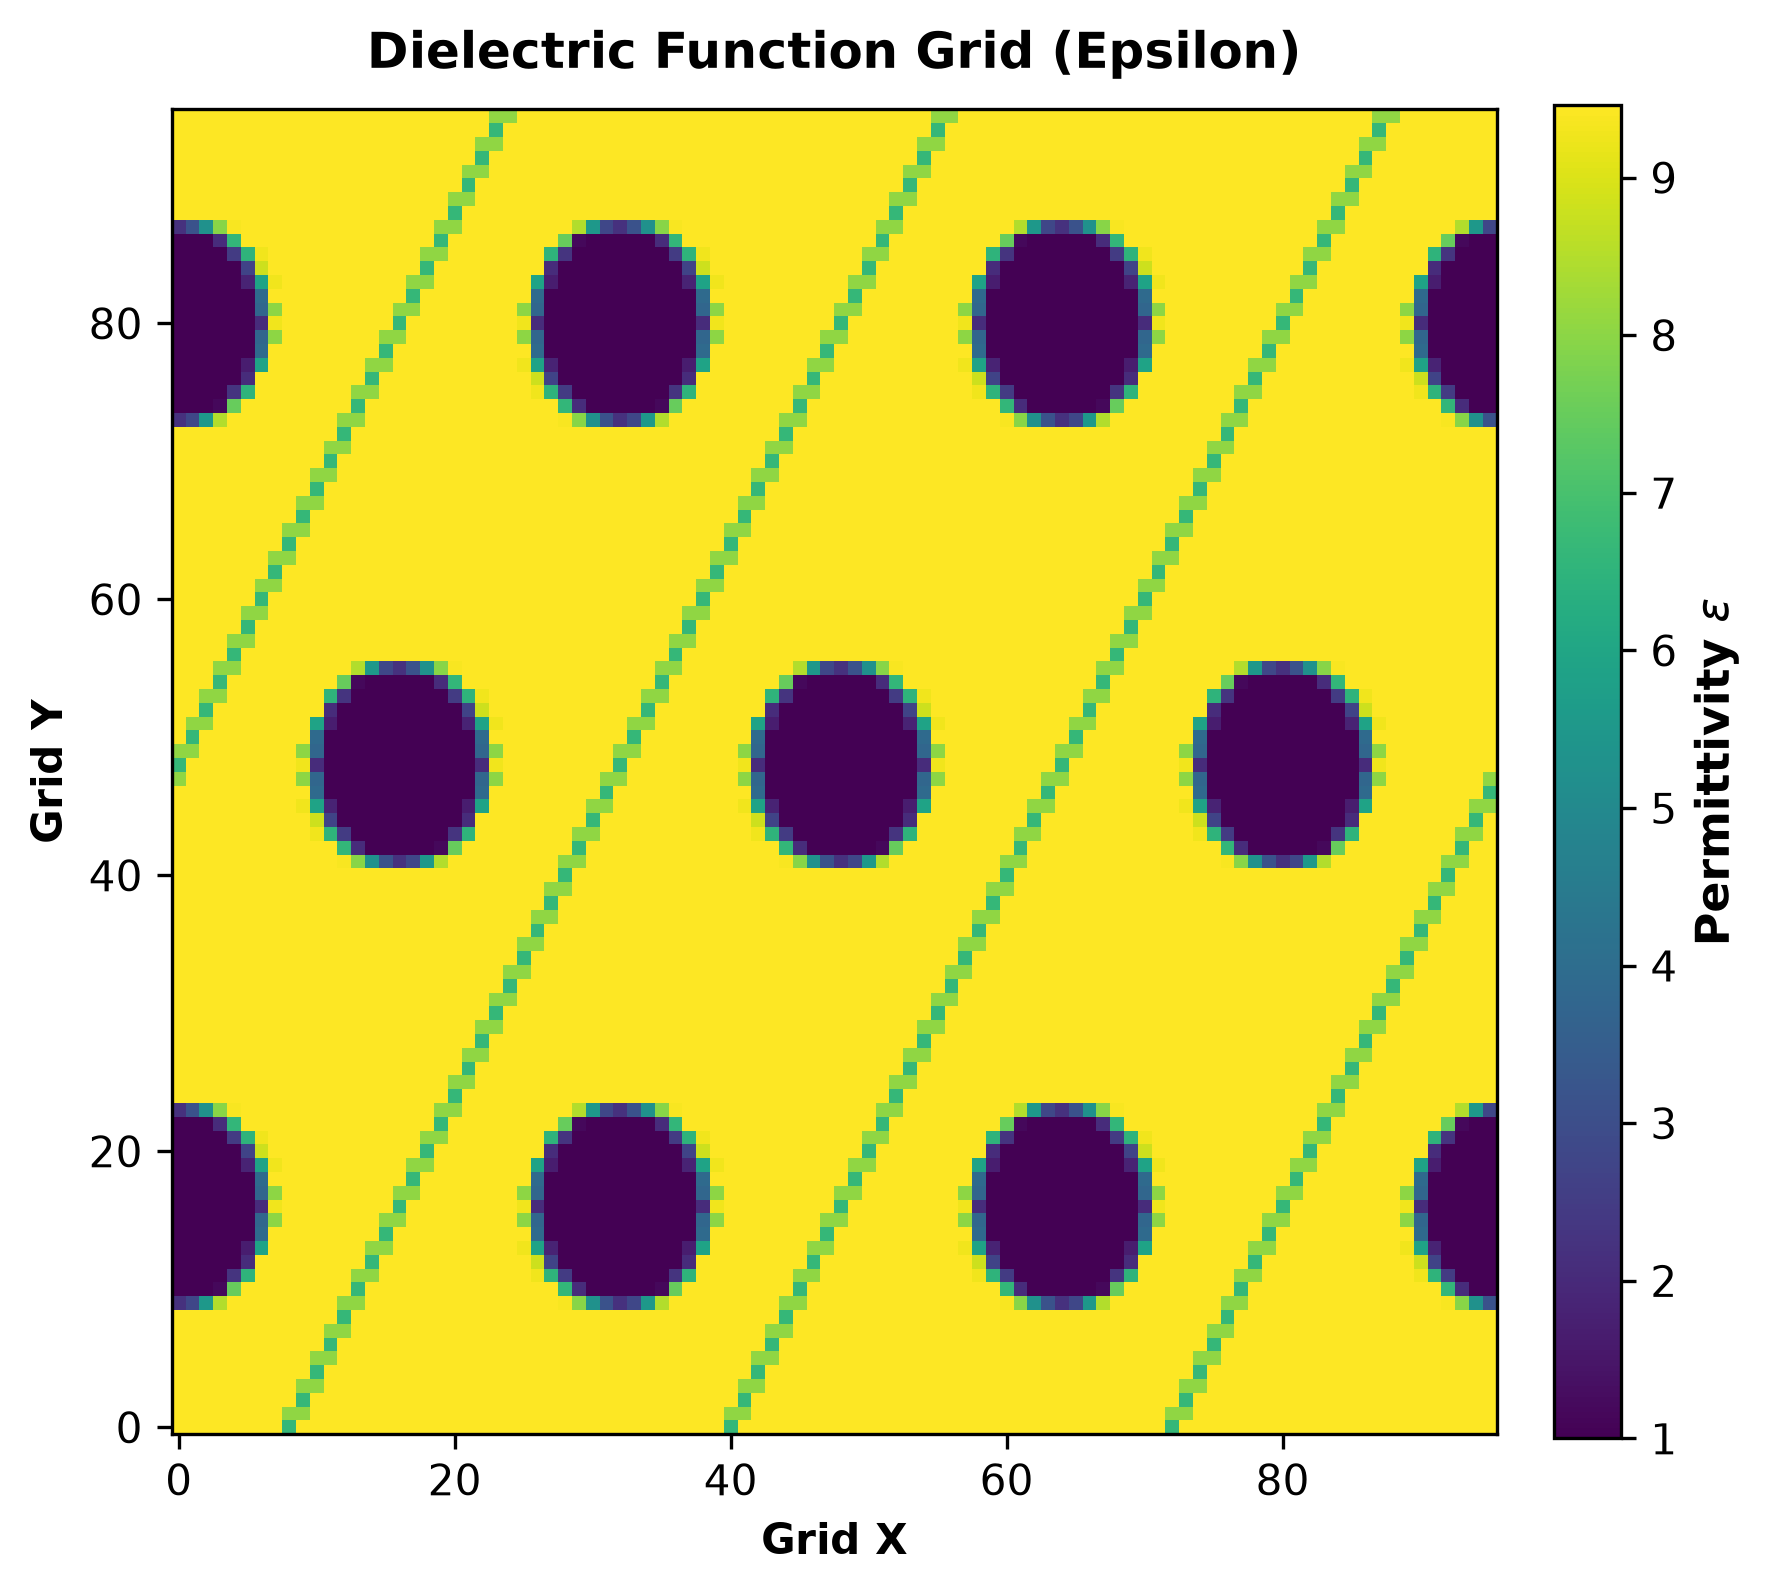
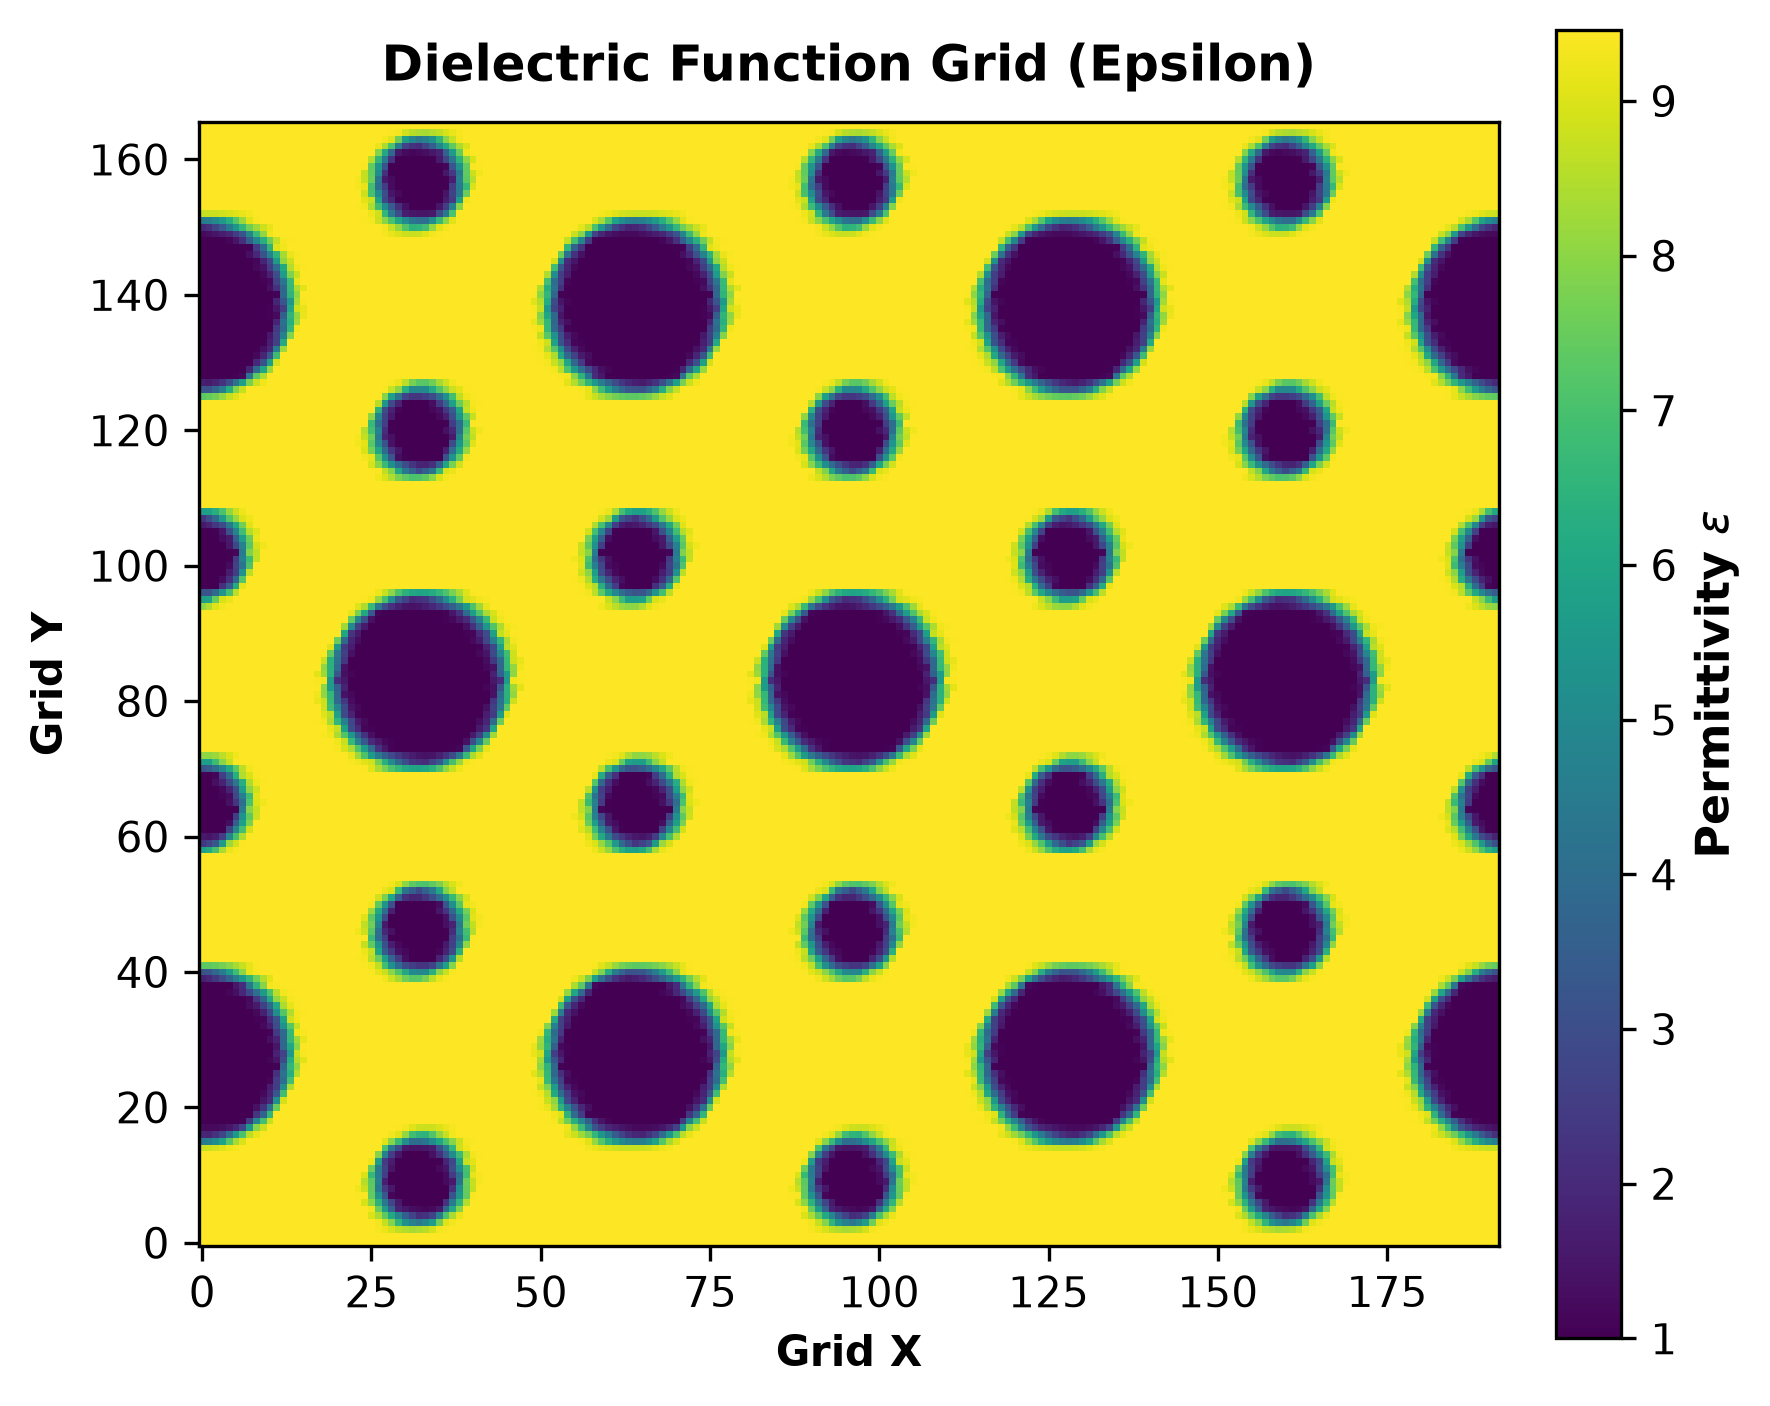
feat(v2): support multi-mode extraction (te, tm, zeven, zodd, freqs), red/blue/black dot band plotting, and update main.ctl for TE and TM modes

diff --git a/src/phc_nzi/plotter.py b/src/phc_nzi/plotter.py
@@ -19,19 +19,19 @@ def plot_band_structure(
     dpi: int = 300,
 ) -> Tuple[plt.Figure, plt.Axes]:
     """
-    Plot photonic band structure dispersion curves from a .data file.
+    Plot photonic band structure dispersion curves from .data files.
 
     Parameters:
     -----------
     data_path : str or PathLike
-        Path to .data file (e.g. 'tefreqs.data') or directory containing .data files.
+        Path to a .data file (e.g. 'tefreqs.data') or directory containing .data files.
     labels : list of str, str, or PathLike, optional
         High-symmetry k-point labels (e.g. ['K', 'Γ', 'M']) or path to kpath_labels.data file.
     output_path : str or PathLike, optional
         Path to save figure (e.g. 'band_structure.png'). If None, figure is not saved to disk.
     title : str
         Plot title.
-    highlight_gaps : bool, default True
+    highlight_gaps : bool, default False
         Whether to highlight and annotate complete photonic band gaps.
     style : {'light', 'dark'}, default 'light'
         Visual style mode.
@@ -45,54 +45,92 @@ def plot_band_structure(
     (fig, ax) : matplotlib Figure and Axes objects.
     """
     path_obj = Path(data_path).resolve()
+    target_dir = path_obj if path_obj.is_dir() else path_obj.parent
+
+    # Mode color & label specs:
+    # "te" and "zeven" -> Red ("#d62728")
+    # "tm" and "zodd"  -> Blue ("#1f77b4")
+    # "" (generic)    -> Black ("#000000")
+    MODE_SPECS = [
+        ("tefreqs.data", "#d62728", "TE Modes"),
+        ("zevenfreqs.data", "#d62728", "Z-even Modes"),
+        ("tmfreqs.data", "#1f77b4", "TM Modes"),
+        ("zoddfreqs.data", "#1f77b4", "Z-odd Modes"),
+        ("freqs.data", "#000000", "Modes"),
+    ]
+
+    files_to_plot: List[Tuple[Path, str, str]] = []
+
     if path_obj.is_dir():
-        # Look for tefreqs.data, tmfreqs.data, or freqs.data in directory
-        for candidate in ["tefreqs.data", "tmfreqs.data", "freqs.data"]:
-            if (path_obj / candidate).is_file():
-                path_obj = path_obj / candidate
-                break
+        for candidate_filename, color, mode_label in MODE_SPECS:
+            fpath = path_obj / candidate_filename
+            if fpath.is_file():
+                files_to_plot.append((fpath, color, mode_label))
+    else:
+        # User passed a specific file path. Check if other .data files exist in same dir
+        fname_lower = path_obj.name.lower()
+        if "te" in fname_lower or "zeven" in fname_lower:
+            c, lbl = "#d62728", "TE Modes" if "te" in fname_lower else "Z-even Modes"
+        elif "tm" in fname_lower or "zodd" in fname_lower:
+            c, lbl = "#1f77b4", "TM Modes" if "tm" in fname_lower else "Z-odd Modes"
+        else:
+            c, lbl = "#000000", "Modes"
 
-    if not path_obj.is_file():
-        raise FileNotFoundError(f"Band structure data file not found at '{path_obj}'")
+        files_to_plot.append((path_obj, c, lbl))
 
-    headers, data_matrix = load_data_file(path_obj)
-    if data_matrix.shape[0] == 0:
-        raise ValueError(f"No numeric rows found in data file '{path_obj}'")
+        # Also search for sibling .data files in target_dir if available
+        for candidate_filename, color, mode_label in MODE_SPECS:
+            fpath = target_dir / candidate_filename
+            if fpath.is_file() and fpath != path_obj:
+                files_to_plot.append((fpath, color, mode_label))
 
-    # Determine polarization prefix from filename or headers
-    pol_name = "TE" if "te" in path_obj.name.lower() else ("TM" if "tm" in path_obj.name.lower() else "Band")
-
-    # Column 0 is k_index, column 4 is kmag_2pi, columns 5+ are band frequencies
-    k_indices = data_matrix[:, 0]
-    bands_data = data_matrix[:, 5:]
-    num_bands = bands_data.shape[1]
+    if not files_to_plot:
+        raise FileNotFoundError(f"No band structure .data files found in '{target_dir}'")
 
     # Resolve k-path labels
-    label_list = resolve_kpath_labels(labels, path_obj.parent)
+    label_list = resolve_kpath_labels(labels, target_dir)
 
     # Configure matplotlib style
     setup_plot_style(style)
 
     fig, ax = plt.subplots(figsize=(8, 5.5), dpi=dpi)
 
-    # Plot band curves
-    colors = plt.cm.tab10(np.linspace(0, 1, max(10, num_bands)))
-    for b in range(num_bands):
-        ax.plot(
-            k_indices,
-            bands_data[:, b],
-            label=f"Band {b+1}",
-            color=colors[b % len(colors)],
-            linewidth=2.0,
-            marker="o",
-            markersize=3.5,
-            alpha=0.9
-        )
+    k_indices_ref: Optional[np.ndarray] = None
+    all_bands_list: List[np.ndarray] = []
+
+    for fpath, color, mode_label in files_to_plot:
+        headers, data_matrix = load_data_file(fpath)
+        if data_matrix.shape[0] == 0:
+            continue
+
+        k_indices = data_matrix[:, 0]
+        if k_indices_ref is None:
+            k_indices_ref = k_indices
+
+        bands_data = data_matrix[:, 5:]
+        num_bands = bands_data.shape[1]
+        all_bands_list.append(bands_data)
+
+        # Plot each band with no line (dots only)
+        for b in range(num_bands):
+            ax.plot(
+                k_indices,
+                bands_data[:, b],
+                linestyle="None",
+                marker="o",
+                markersize=4.0,
+                color=color,
+                alpha=0.85,
+                label=mode_label if b == 0 else ""  # Common legend entry per mode type
+            )
+
+    if k_indices_ref is None:
+        raise ValueError(f"No numeric band data found in target files.")
 
     # Configure X-axis ticks & high-symmetry vertical lines
     if label_list and len(label_list) > 1:
         formatted_labels = [r"$\Gamma$" if l.lower() in ["gamma", "g"] else l for l in label_list]
-        tick_positions = np.linspace(k_indices[0], k_indices[-1], len(formatted_labels))
+        tick_positions = np.linspace(k_indices_ref[0], k_indices_ref[-1], len(formatted_labels))
         ax.set_xticks(tick_positions)
         ax.set_xticklabels(formatted_labels, fontsize=12, fontweight="bold")
 
@@ -103,15 +141,16 @@ def plot_band_structure(
 
     # Configure Y-axis
     ax.set_ylabel(r"Frequency ($\omega a / 2\pi c$)", fontsize=12, fontweight="bold")
-    ax.set_title(f"{title} ({pol_name} Modes)", fontsize=13, fontweight="bold", pad=12)
+    ax.set_title(title, fontsize=13, fontweight="bold", pad=12)
 
     # Highlight Photonic Band Gaps if requested
-    if highlight_gaps and num_bands > 1:
-        gaps = find_photonic_band_gaps(bands_data)
+    if highlight_gaps and len(all_bands_list) > 0:
+        combined_bands = np.hstack(all_bands_list)
+        gaps = find_photonic_band_gaps(combined_bands)
         for g_idx, (gap_min, gap_max, gap_pct, lower_b) in enumerate(gaps):
             ax.axhspan(gap_min, gap_max, color="#ff7f0e", alpha=0.22, label="Band Gap" if g_idx == 0 else "")
             mid_y = (gap_min + gap_max) / 2.0
-            mid_x = (k_indices[0] + k_indices[-1]) / 2.0
+            mid_x = (k_indices_ref[0] + k_indices_ref[-1]) / 2.0
             ax.text(
                 mid_x,
                 mid_y,
@@ -124,12 +163,11 @@ def plot_band_structure(
                 bbox=dict(boxstyle="round,pad=0.3", facecolor="white", edgecolor="#d95f02", alpha=0.85)
             )
 
-    ax.set_xlim(k_indices[0], k_indices[-1])
+    ax.set_xlim(k_indices_ref[0], k_indices_ref[-1])
     ax.set_ylim(bottom=0.0)
     ax.grid(True, linestyle=":", alpha=0.5)
 
-    if num_bands <= 10:
-        ax.legend(loc="upper right", frameon=True, fontsize=8.5, ncol=2 if num_bands > 5 else 1)
+    ax.legend(loc="upper right", frameon=True, fontsize=9.5)
 
     fig.tight_layout()
 

diff --git a/src/phc_nzi/extractor.py b/src/phc_nzi/extractor.py
@@ -25,7 +25,8 @@ def extract_frequencies(
     Returns:
     --------
     dict
-        Dictionary mapping polarization keys ('tefreqs', 'tmfreqs', 'freqs') to parsed headers and rows.
+        Dictionary mapping polarization keys ('tefreqs', 'tmfreqs', 'zevenfreqs', 'zoddfreqs', 'freqs')
+        to parsed headers and rows.
     """
     out_file = Path(output_path).resolve()
     if not out_file.is_file():
@@ -40,7 +41,7 @@ def extract_frequencies(
     lines = out_file.read_text().splitlines()
 
     extracted_data: Dict[str, Any] = {}
-    polarization_types = ["tefreqs", "tmfreqs", "freqs"]
+    polarization_types = ["tefreqs", "tmfreqs", "zevenfreqs", "zoddfreqs", "freqs"]
 
     for pol in polarization_types:
         header_cols: Optional[List[str]] = None
@@ -85,7 +86,7 @@ def extract_frequencies(
             if save_data:
                 data_filepath = target_dir / f"{pol}.data"
                 write_data_file(header_cols, data_rows, data_filepath)
-                print(f"Extracted {len(data_rows)} k-points to '{data_filepath}'")
+                print(f"Extracted {len(data_rows)} k-points for '{pol}' to '{data_filepath}'")
 
     # Extract KPATH_LABELS if present in the log
     labels = extract_kpath_labels(lines)
